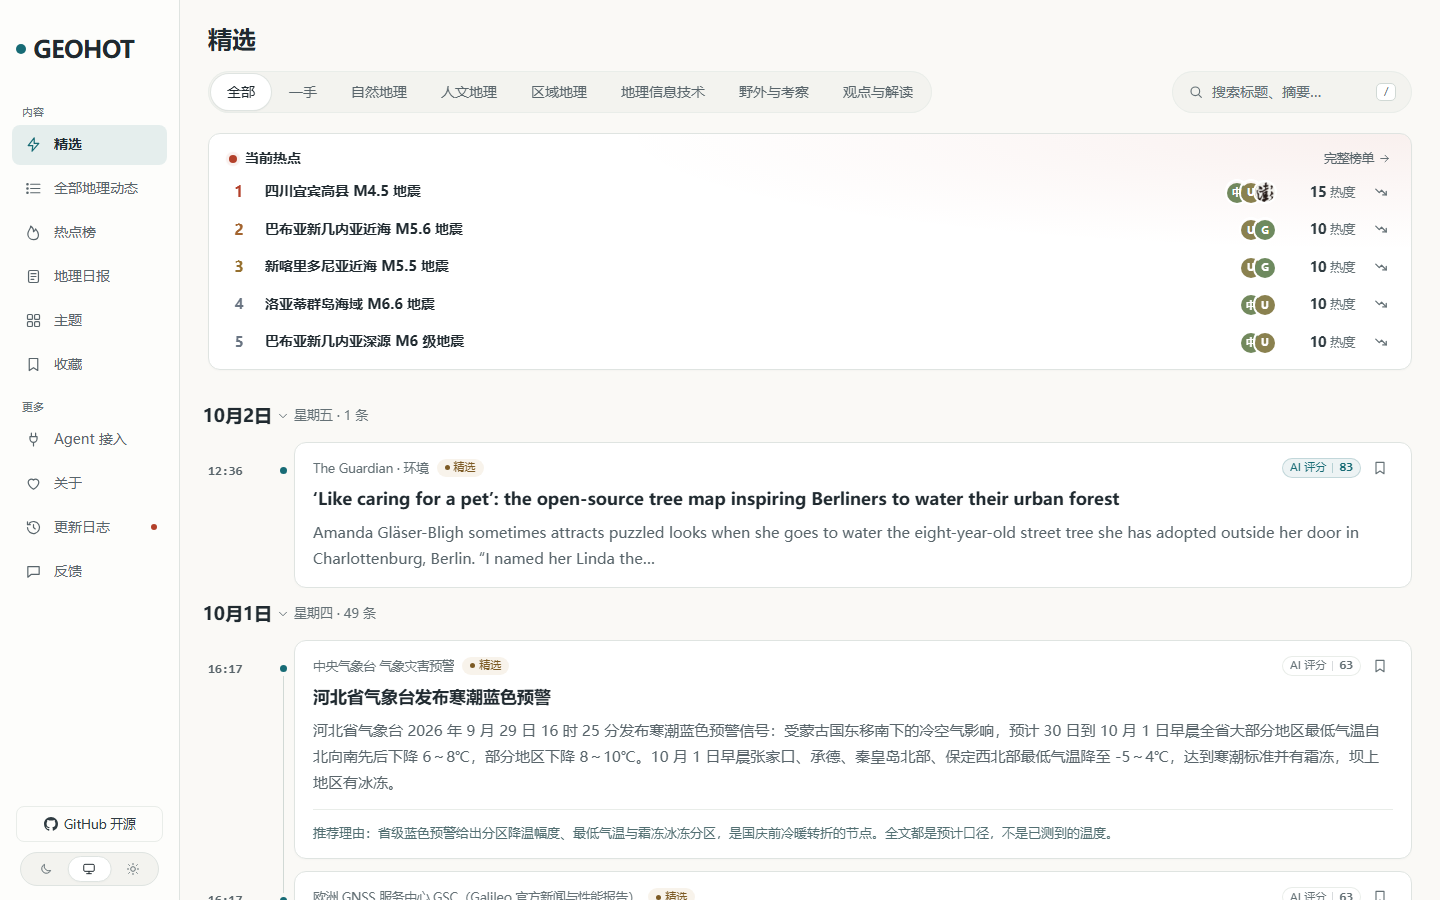
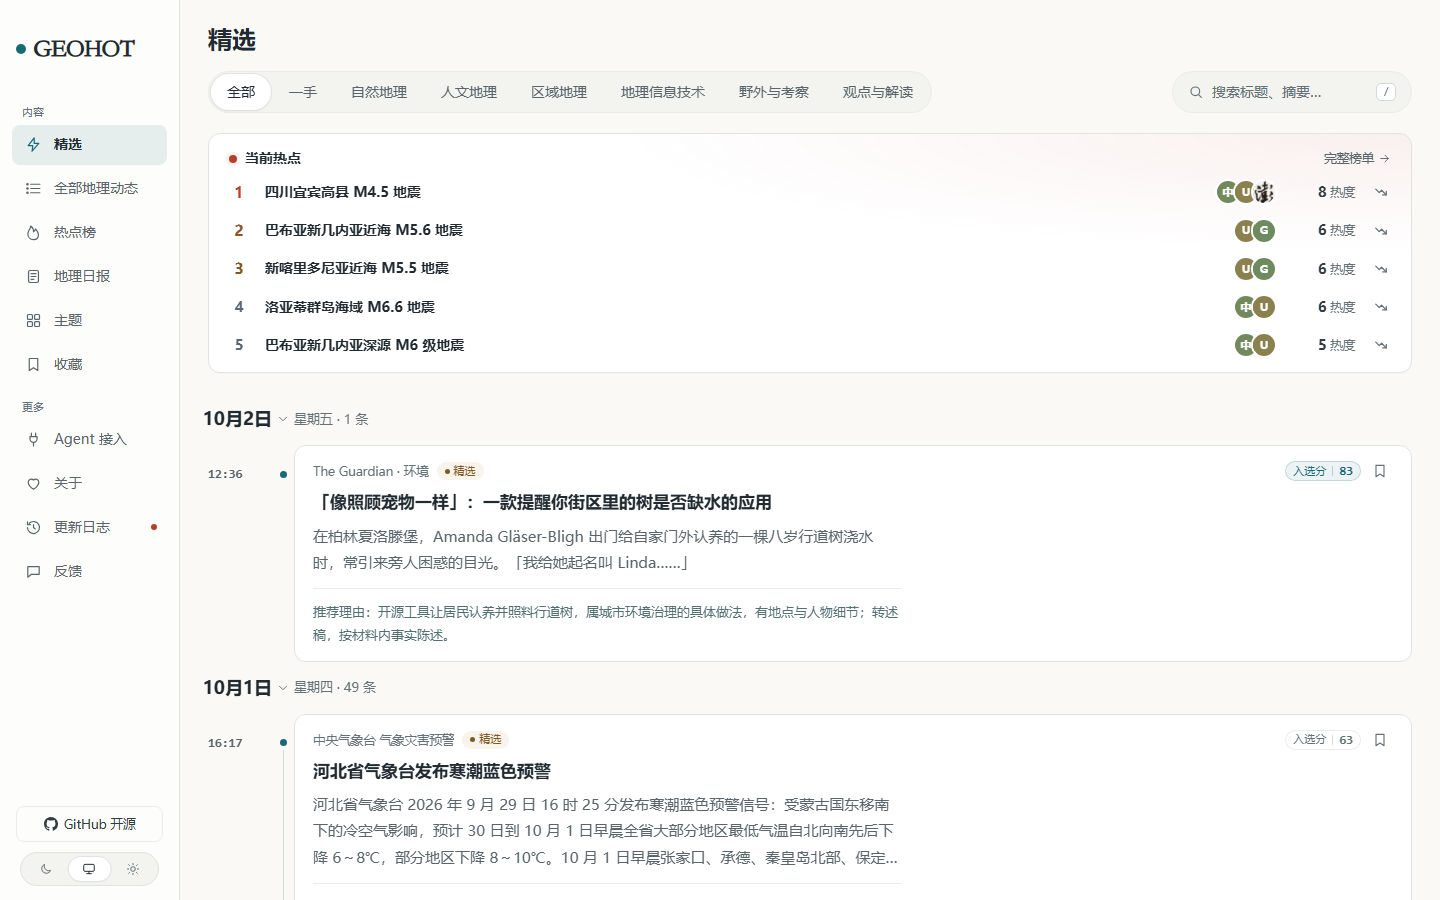
第七轮验收：smoke 跨出口检查自我修正，README 配图按线上新拍

diff --git a/scripts/smoke.ts b/scripts/smoke.ts
@@ -194,16 +194,17 @@ try {
     ["v1 精选", titlesOfJson(await getText("/api/v1/items?mode=selected&limit=100"), (p) => p.items?.map((i: any) => i.title))],
     ["v1 全部", titlesOfJson(await getText("/api/v1/items?mode=all&limit=100"), (p) => p.items?.map((i: any) => i.title))],
     ["精选 RSS", titlesOfFeed(await getText("/feed.xml"))],
-    ["主题目录", (topics.topics ?? []).map((t) => t.name)],
+    // 主题目录本身不参与这条判定：/topics 上那 45 条是主题名，IPCC、OpenStreetMap 这类专有名词本来就没有
+    // 中文写法，把它们当"没有中文标题的条目"是这条检查的误报。条目标题由下面的主题页和上面的时间线覆盖。
     // 主题页只查内容最多的那一个：它一定有内容，也不会因为空主题页而假绿。
-    ...(busiest ? [`主题页 ${busiest.slug}`, titlesOfJson(await getText(`/api/site/topics/${busiest.slug}`), (p) => p.items?.map((i: any) => i.title))] as [string, string[]] : []),
+    ...(busiest ? [[`主题页 ${busiest.slug}`, titlesOfJson(await getText(`/api/site/topics/${busiest.slug}`), (p) => (p.items ?? []).map((i: any) => i.title))] as [string, string[]]] : []),
   ];
   // The paper is a machine exit too: an entry the reader cannot read in Chinese must not be set in it.
   const latestDaily = await fetch(`${base}/api/v1/dailies/latest`, { signal: AbortSignal.timeout(30_000) });
   if (latestDaily.status === 200) {
     outlets.push(["日报版面", titlesOfJson(await latestDaily.text(), (p) => [
-      ...(p.report?.sections ?? []).flatMap((s: any) => s.items ?? []).map((i: any) => i.title),
-      ...(p.report?.flashes ?? []).map((f: any) => f.title),
+      ...((p.report?.sections ?? []) as any[]).flatMap((s: any) => (Array.isArray(s?.items) ? s.items : [])).map((i: any) => i?.title ?? ""),
+      ...((p.report?.flashes ?? []) as any[]).map((f: any) => f?.title ?? ""),
     ])]);
   } else {
     console.log(`– reader copy  no daily paper yet (HTTP ${latestDaily.status})`);
@@ -211,6 +212,13 @@ try {
 
   let leaks = 0;
   for (const [name, titles] of outlets) {
+    // 取不到数组说明这一出口的形状变了——那是一次失败，不是一行崩溃：整段检查被 throw 打断时，
+    // 后面几个出口就再也没被看过，而输出看起来只像"最后一条报错了"。
+    if (!Array.isArray(titles)) {
+      console.log(`✗ reader copy  ${name}：取到的不是标题数组（这一出口的形状变了，检查没跑）`);
+      failed += 1;
+      continue;
+    }
     const bad = titles.filter(englishCopy);
     leaks += bad.length;
     if (bad.length) {

diff --git a/packages/backend/src/publication/reports.ts b/packages/backend/src/publication/reports.ts
@@ -23,6 +23,8 @@ interface ReportRow {
 
 interface Availability {
   available: boolean;
+  /** False only when the item itself is withdrawn or not public — see `citationFrom`'s struck-through branch. */
+  public?: boolean;
   firstParty: boolean;
   sourceId: string | null;
   sourceIcon: string | null;
@@ -153,7 +155,7 @@ function citationFrom(raw: Record<string, any>, avail: Map<string, Availability>
     //    so the reader sees a struck-through title and nothing else (tests/publication.test.ts pins this);
     //  · the item is public but its source left the editorial set — there is no site page, yet the paper
     //    still has to say where the claim came from, so title, source name and original address stay.
-    const struck = a && !a.public;
+    const struck = a?.public === false;
     return {
       itemId: id, title: String(raw.title ?? ""), summary: null,
       sourceName: struck ? "" : String(raw.sourceName ?? raw.source?.name ?? ""),

diff --git a/README.md b/README.md
@@ -41,7 +41,7 @@
   <img src="docs/shots/home-light.png" alt="首页精选：左侧导航、当前热点榜、按日期分组的精选卡片" width="100%">
 </p>
 <p align="center"><sub>
-  ▲ 首页「精选」· 截图摄于 **2026-10-02 14:02（+0800）**，路由 `/geohot/`，视口 1440×900，浅色主题 · 顶部「当前热点」是那一刻的前五条：1 四川宜宾高县 M4.5 地震（热度 15）、2 巴布亚新几内亚近海 M5.6、3 新喀里多尼亚近海 M5.5、4 洛亚蒂群岛海域 M6.6、5 巴布亚新几内亚深源 M6 级（后四条各 10）· 下面按日期分组，每张卡片是来源、标题、摘要与编辑部写的推荐理由。<br>
+  ▲ 首页「精选」· 截图摄于 **2026-10-03 11:52（+0800）**，路由 `/geohot/`，视口 1440×900，浅色主题 · 顶部「当前热点」是那一刻的前五条：1 四川宜宾高县 M4.5 地震（热度 8）、2 巴布亚新几内亚近海 M5.6、3 新喀里多尼亚近海 M5.5（各 6）、4 洛亚蒂群岛海域 M6.6（6）、5 巴布亚新几内亚深源 M6 级（5）——这个榜每 5 分钟重排一次，图里的数字只对那一刻成立。<br>
   **这张图有一处已经不能代表本站**：图里第一张卡片（The Guardian·环境·入选分 83）整条是英文原文标题与英文摘要，那是当天 20:10 那一批文案修复（提交 `6bdb9fb`、`56c28d3`）之前的状态——2026-10-03 复核线上同一张卡片，标题已是中文（「像照顾宠物一样」：一款提醒你街区里的树是否缺水的应用），站上不再发布没有中文稿的条目。上面那句"每张卡片是来源、标题、摘要与推荐理由"因此是就代码现状说的，不是就这张图说的。**这一屏每天在变，线上地址才是事实来源**：`https://xxc2007.me/geohot/`。
 </sub></p>
 
@@ -109,7 +109,7 @@
   <img src="docs/shots/hot-light.png" alt="地理热点榜：NO.01 大卡片带 24 小时热度曲线，右侧两张次条卡片" width="100%">
 </p>
 <p align="center"><sub>
-  ▲ 热点榜 `/hot` · 截图摄于 **2026-10-02 14:02（+0800）**，路由 `/geohot/hot`，视口 1440×900，浅色主题；图里页面自述「10月2日 14:00 更新」· 那一刻过去 48 小时讨论最多的是 6 个事件，首位 NO.01 是四川宜宾高县 M4.5：中国地震台网中心速报目录、USGS 全球地震目录、澎湃三家对同一次破裂各报一次（台网 M4.5/5 千米，USGS mb 5.0/10 公里），并成一个事件，热度指数 15、3 位参与者。<br>
+  ▲ 热点榜 `/hot` · 截图摄于 **2026-10-03 11:52（+0800）**，路由 `/geohot/hot`，视口 1440×900，浅色主题；那一刻过去 48 小时的讨论热度里排到 6 个事件，首位 NO.01 是四川宜宾高县 M4.5：中国地震台网中心速报目录、USGS 全球地震目录 M4.5+（近一周）等 3 个来源并成一个事件，热度指数 8、3 位参与者，次条 NO.02 标注 ↓15%。榜单每 5 分钟重排，页面顶部自己写更新到几分几秒。<br>
   **图里的热度数字几小时就作废**：`hot.rank` 在 `apps/worker/src/schedules.ts:42` 上是 `*/5 * * * *`——这个榜每 5 分钟重排一次。2026-10-02 傍晚复核同一页是 10 个事件；2026-10-03 09:40 再复核又回到 6 个事件、NO.01 仍是那次 M4.5 但热度指数已经掉到 9。所以这一屏以线上为准：`https://xxc2007.me/geohot/hot`（或 `GET /api/v1/hot-topics`）。
 </sub></p>
 
@@ -117,7 +117,7 @@
   <img src="docs/shots/daily-light.png" alt="地理日报头版：报头字、期号卡、导读与分节正文" width="100%">
 </p>
 <p align="center"><sub>
-  ▲ `/daily` · 截图摄于 **2026-10-02 14:03（+0800）**，视口 1440×900，浅色主题；图里那一版是 **2026-10-02 第 1 期**，要复现这张图请打开固定地址 `/daily/2026-10-02`，**不要打开 `/daily`**——`/daily` 是"最新一期"，2026-10-03 08:00 起它给的是第 2 期（本期只有 1 条入选）。报头字「地理日报」是本站自己生成的 SVG（`scripts/nameplates.ts` 按 `SITE.subject` 出图）。这一期 21 件大事、14 个来源、12 件一手发布、5 项技术与数据发布，约 10 分钟读完，头条是 ESA 报道的两极冰盖损失，右侧导读三条，本期版面三节 8 + 5 + 8 件。<br>
+  ▲ `/daily` · 截图摄于 **2026-10-03 11:53（+0800）**，视口 1440×900，浅色主题；拍的是固定地址 **`/daily/2026-10-02`（第 1 期）**，**不是 `/daily`**——`/daily` 是"最新一期"，明天就不是这一版了。这一期 21 件大事、14 个来源、12 件一手发布、5 项技术与数据发布，约 9 分钟读完，头条是格陵兰与南极失冰推高海平面，右侧导读三条，本期版面分三节。报头字「地理日报」是本站自己生成的 SVG（`scripts/nameplates.ts` 按 `SITE.subject` 出图）。<br>
   **这张图里有一处英文**：导读段末尾的「Sudden collapse of submarine volcano drives extreme hazards。」和右侧「今日看点 3」的整条英文标题，是当天 20:10 那一批文案修复之前的状态。2026-10-03 复核线上 `/daily/2026-10-02`，那两处都已是中文（「海底火山的突然坍塌会驱动极端灾害」），整页正文里已找不到成句的英文标题。**线上才是事实来源**：`https://xxc2007.me/geohot/daily`。
 </sub></p>
 

diff --git a/docs/migration.md b/docs/migration.md
@@ -198,9 +198,10 @@ curl -s https://<新域名>/<前缀>/api/v1/dailies | head -c 200
   （不是'没报错'就算）"是这一步的全部要点，别跳。
 
 不管哪条路：**`.env`、`.env.pipeline`、`.env.ports`、`.data/`、`.pgdata/` 都不进 git**（`.gitignore` 兜住了
-`.env*` 这一族）。但 `.gitignore` 目前**不**忽略 `prod.env`、`secrets.env`、`config/production.env`、
-`id_ed25519`、`server.pem` 这几类文件名（2026-10-03 `git check-ignore -v` 实测都不被忽略），
-搬家时新机器上生成的这些文件请放到仓库目录**之外**，或者先把补规则的那几行合进 `.gitignore`。
+`.env*` 这一族）。2026-10-03 起 `.gitignore` 还补了 `*.env`、`*.pem`、`*.key`、`*.p8`、`id_*`、
+`*deploy_key*`、`secrets*`、`credentials*`——此前 `prod.env`、`secrets.env`、`config/production.env`、
+`id_ed25519`、`server.pem` 这几类文件名**不被忽略**（`git check-ignore -v` 实测），新机器上顺手放在仓库里
+就会被提交。补规则之后仍建议把密钥文件放在仓库目录**之外**。
 
 ---
 
@@ -240,7 +241,18 @@ bash deploy/geohot/verify-github-sync.sh        # 独立复跑一遍逐字节核
 ### 7.3 三张配图重拍
 
 `docs/shots/` 下只有三张图，`scripts/check-shots.ts` 会保证"每张都被 README 引用、没有重复、明暗与命名一致"。
-搬家 + 文案变化之后按下面这张单子重拍（视口 **1440×900**，浅色主题，**桌面档**）：
+搬家 + 文案变化之后重拍一条命令即可（视口 **1440×900**，浅色主题，**桌面档**）：
+
+```bash
+npm run shots -- --base https://<新域名>/<前缀>          # 首页与热点榜
+# 日报要拍固定日期，不拍 /daily：
+"<chrome 路径>" --headless=new --hide-scrollbars --force-color-profile=srgb \
+  --window-size=1440,900 --screenshot=docs/shots/daily-light.png \
+  "https://<新域名>/<前缀>/daily/<一个固定日期>"
+node scripts/check-shots.ts                              # 引用、尺寸、命名一致
+```
+（`scripts/shoot.ts` 自己找 Chrome：Playwright 的浏览器缓存 → 系统 Chrome/Edge；也可以 `--chrome=` 指路。）
+按下面这张单子复核：
 
 | 文件 | 拍哪个地址 | 拍完必须复核的点 |
 |---|---|---|
